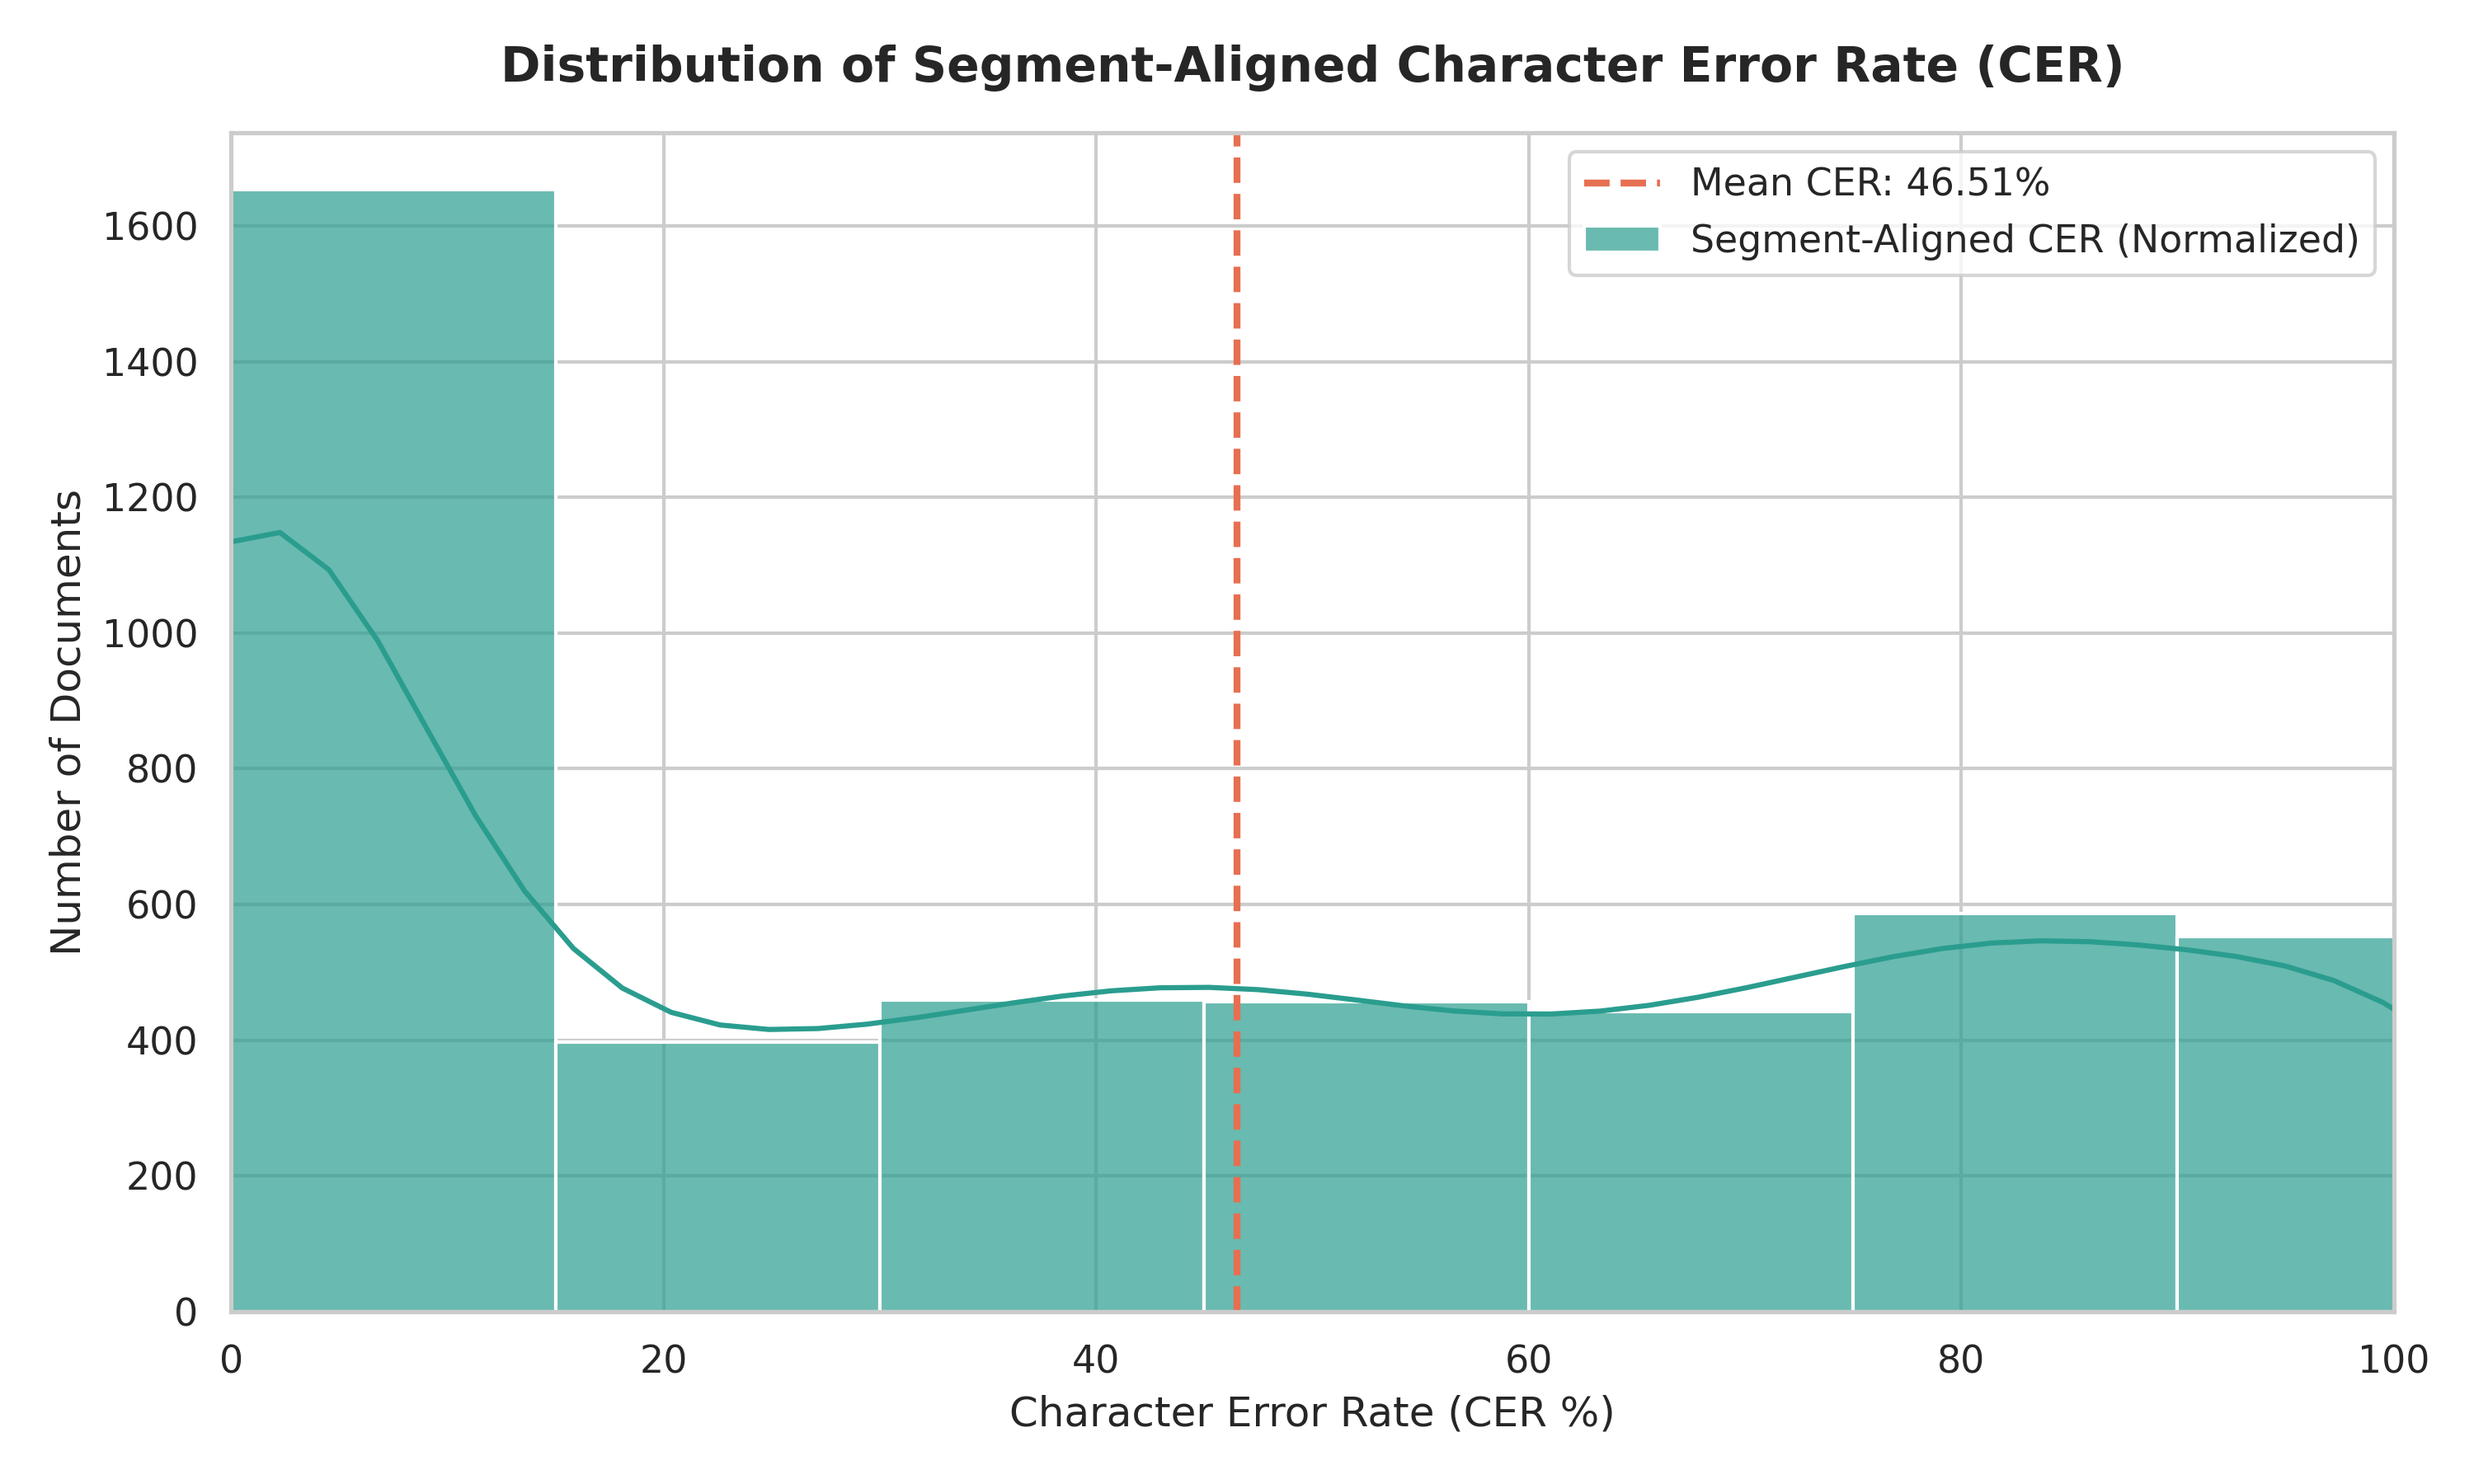
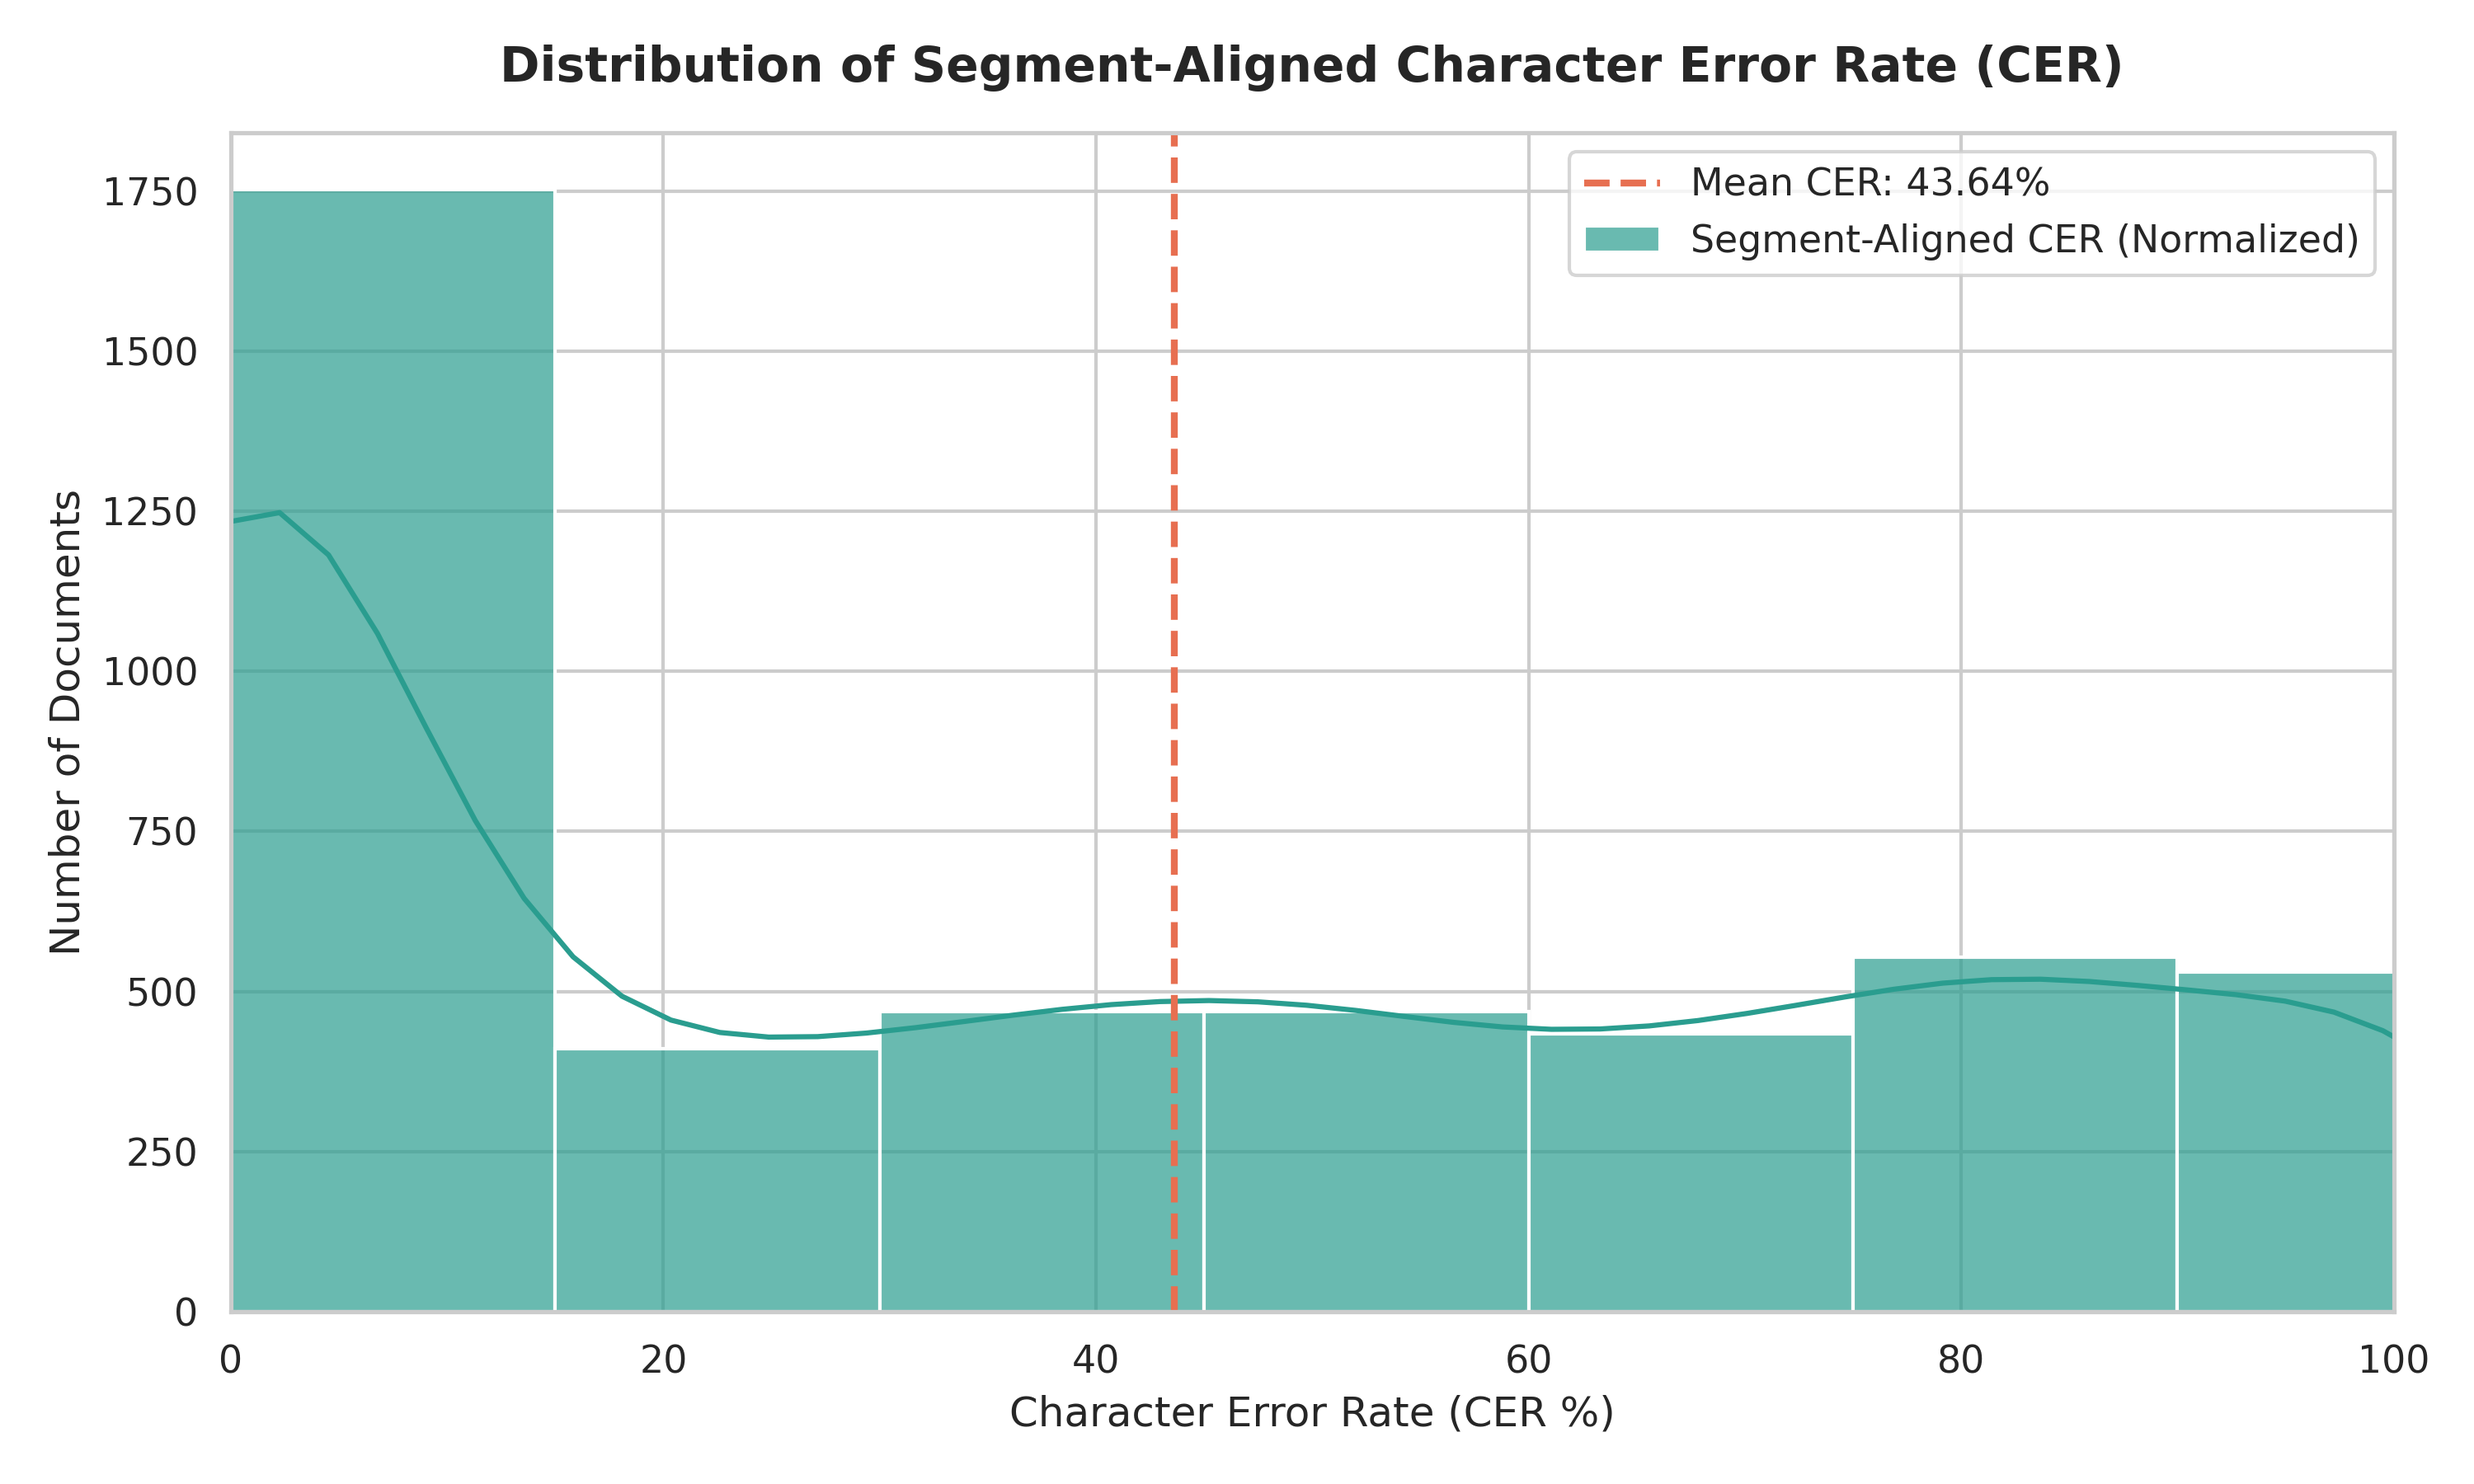
chore: update visualization to use Boxplot for CER by Confidence

diff --git a/scripts/visualize_results.py b/scripts/visualize_results.py
@@ -143,42 +143,75 @@ def main():
 
     # --- CHART 3: Confidence vs Aligned CER Scatter Plot ---
     if "avg_confidence" in df.columns:
-        print("Generating Chart 3: Confidence vs CER...")
+        print("Generating Chart 3a: Confidence Distribution...")
+        valid_data = df.dropna(subset=["avg_confidence", "cer_aligned"]).copy()
+        
+        # --- Chart 3a: Confidence Distribution ---
+        fig, ax = plt.subplots(figsize=(10, 5))
+        sns.histplot(
+            valid_data["avg_confidence"],
+            bins=40,
+            kde=True,
+            color="#457b9d",
+            ax=ax
+        )
+        ax.set_title("Distribution des Scores de Confiance (Modèle OCR)", fontsize=14, fontweight="bold", pad=15)
+        ax.set_xlabel("Confiance du Modèle (%)", fontsize=12)
+        ax.set_ylabel("Nombre de documents", fontsize=12)
+        ax.set_xlim(0, 105)
+        
+        plt.tight_layout()
+        chart3a_path = output_dir / "confidence_distribution.png"
+        plt.savefig(chart3a_path, dpi=300, bbox_inches='tight')
+        plt.close()
+        print(f" Saved: {chart3a_path}")
+
+        # --- Chart 3b: Boxplot of CER by Confidence Bins ---
+        print("Generating Chart 3b: Boxplot CER by Confidence Bins...")
         fig, ax = plt.subplots(figsize=(10, 6))
         
-        # Plot Hexbin or scatter with alpha for dense plots
-        hb = ax.hexbin(
-            df["avg_confidence"],
-            df["cer_aligned"] * 100,
-            gridsize=30,
-            cmap="YlGnBu",
-            mincnt=1
+        # Create bins for confidence
+        bins = [0, 60, 70, 80, 90, 100]
+        labels = ["< 60%", "60-70%", "70-80%", "80-90%", "90-100%"]
+        valid_data["conf_bin"] = pd.cut(valid_data["avg_confidence"], bins=bins, labels=labels, right=True)
+        
+        # Filter extreme CER for a clean boxplot and scale to %
+        valid_data_capped = valid_data[valid_data["cer_aligned"] <= 1.1].copy()
+        valid_data_capped["cer_pct"] = valid_data_capped["cer_aligned"] * 100
+        
+        # Plot the boxplot (showfliers=False prevents drawing thousands of outlier dots)
+        sns.boxplot(
+            x="conf_bin",
+            y="cer_pct",
+            data=valid_data_capped,
+            palette="Blues",
+            showfliers=False,
+            width=0.6,
+            ax=ax
         )
         
-        cb = fig.colorbar(hb, ax=ax)
-        cb.set_label("Number of Documents", fontsize=11)
+        # Add a light stripplot on top to show the actual bimodal clusters (0 and 100)
+        sns.stripplot(
+            x="conf_bin",
+            y="cer_pct",
+            data=valid_data_capped,
+            color="#e76f51",
+            alpha=0.15,
+            size=3,
+            jitter=0.25,
+            ax=ax
+        )
         
-        # Add a trend line (simple linear fit)
-        # Filter NaNs just in case
-        valid_data = df.dropna(subset=["avg_confidence", "cer_aligned"])
-        x = valid_data["avg_confidence"]
-        y = valid_data["cer_aligned"] * 100
-        if len(x) > 1:
-            m, b = np.polyfit(x, y, 1)
-            ax.plot(x, m*x + b, color="#e76f51", linestyle="-", linewidth=2.5, label="Trendline")
-
-        ax.set_title("OCR Confidence Score vs. Actual CER", fontsize=14, fontweight="bold", pad=15)
-        ax.set_xlabel("Model Confidence Score (%)", fontsize=12)
+        ax.set_title("Taux d'Erreur (CER) par Intervalle de Confiance", fontsize=14, fontweight="bold", pad=15)
+        ax.set_xlabel("Intervalle de Confiance", fontsize=12)
         ax.set_ylabel("Character Error Rate (CER %)", fontsize=12)
-        ax.set_ylim(-5, 105)
-        ax.set_xlim(df["avg_confidence"].min() - 5, 105)
-        ax.legend(fontsize=11)
-
+        ax.set_ylim(-5, 115)
+        
         plt.tight_layout()
-        chart3_path = output_dir / "confidence_vs_cer.png"
-        plt.savefig(chart3_path, dpi=300)
+        chart3b_path = output_dir / "cer_by_confidence_boxplot.png"
+        plt.savefig(chart3b_path, dpi=300, bbox_inches='tight')
         plt.close()
-        print(f" Saved: {chart3_path}")
+        print(f" Saved: {chart3b_path}")
 
     print("\n🎉 Visualizations generated successfully in results/archive/!")
 
